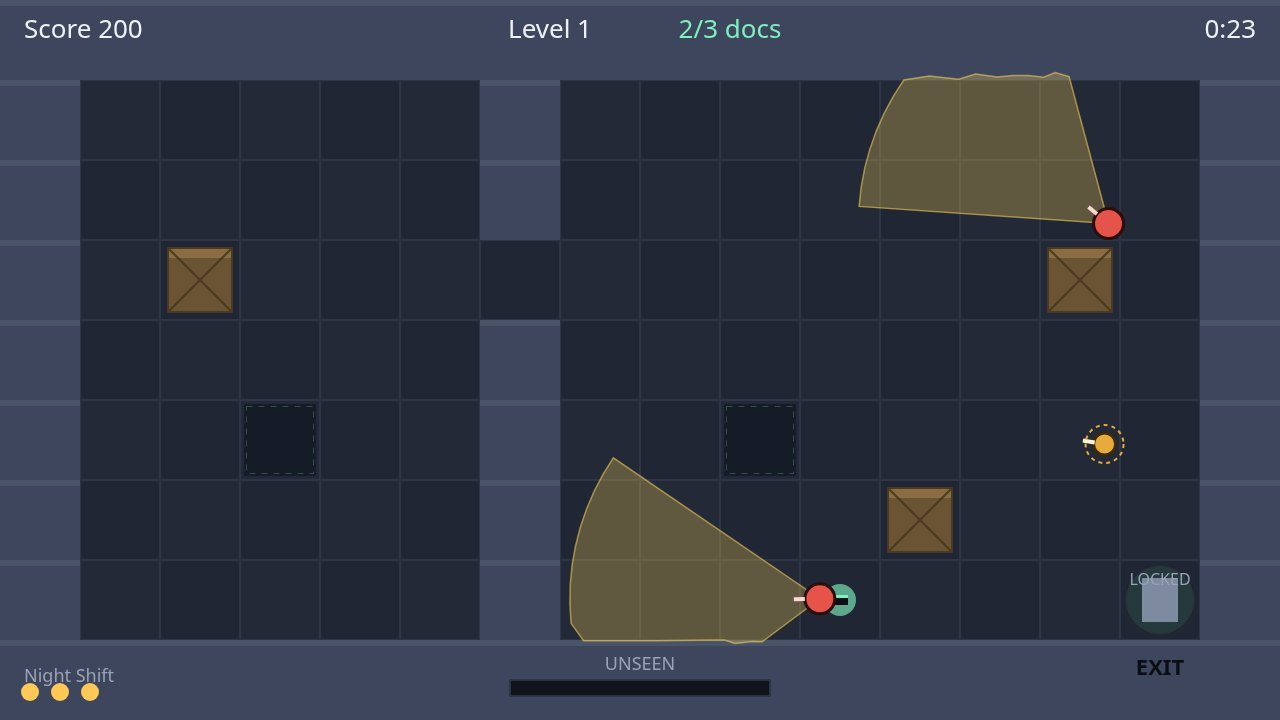
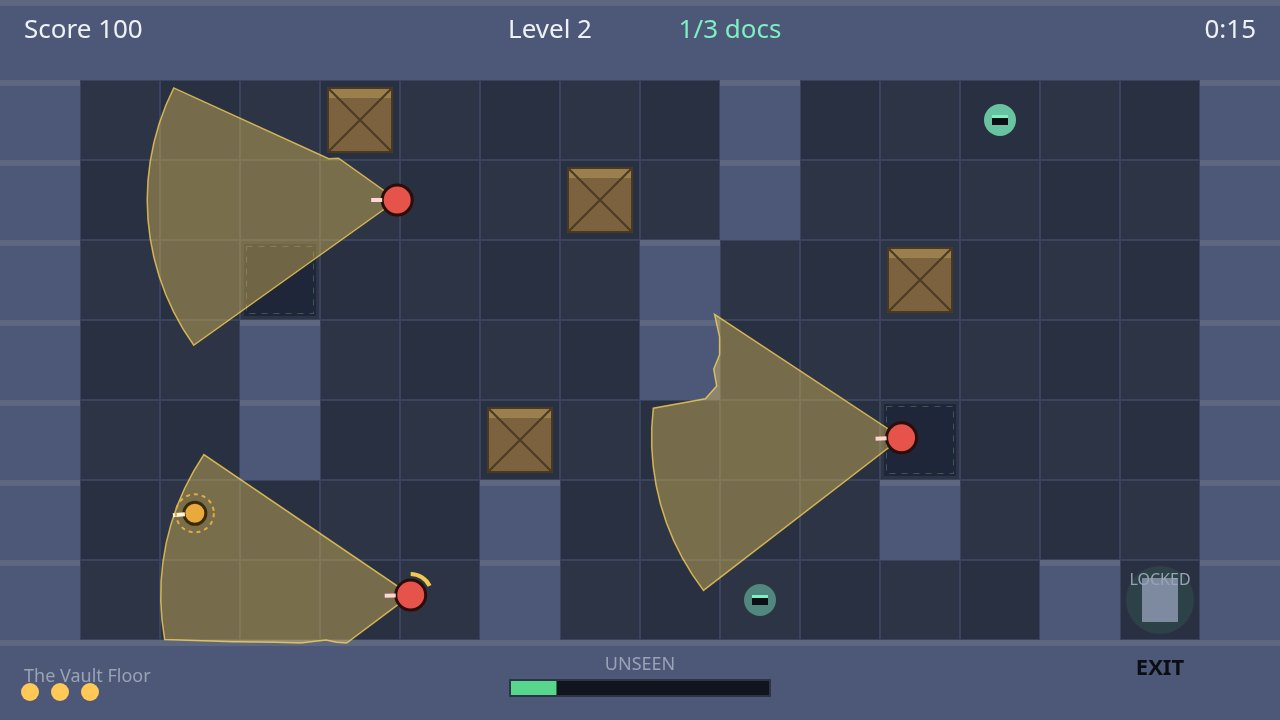
Shadow Courier v1: top-down stealth game + README

diff --git a/game/src/shots.js b/game/src/shots.js
@@ -12,9 +12,8 @@ import { EVENT_CAUGHT, EVENT_LEVEL, EVENT_WIN } from './world.js';
 import { STATE_CHASE, guardCanSee } from './guards.js';
 import { circleHitsWall } from './physics.js';
 import { tileAt, tileBlocks, tileCentre, tileIsShadow } from './levels.js';
-import { SCREEN_LEVEL, SCREEN_PLAY, SCREEN_TITLE } from './render.js';
+import { SCREEN_PLAY } from './render.js';
 
-const START_SECONDS = 5;
 const PLAY_SECONDS = 24;
 const WIN_LIMIT_SECONDS = 300;
 /** Replan the route at most this often; cones move, so a stale route lies. */
@@ -281,60 +280,166 @@ function createPilot() {
 }
 
 /**
- * Set `world` to the named scene (start, play, sneak or win; any other name
- * is start) and return the screen to draw over it and the best score.
+ * A plain-data snapshot of the moving parts of the world, so a screenshot
+ * can freeze the best frame of a real run instead of the frame the clock
+ * happened to stop on. `level` itself is re-loaded on restore, never copied.
  */
-export function stageShot(name, world) {
-  const state = world.state;
-  if (name !== 'play' && name !== 'sneak' && name !== 'win') {
-    world.reset();
-    for (let i = 0; i < START_SECONDS / STEP; i += 1) world.step(STEP, { x: 0, y: 0 }, false, true);
-    return { screen: SCREEN_TITLE, best: 0 };
-  }
+function snapshotState(state) {
+  return JSON.stringify({
+    levelIndex: state.levelIndex,
+    player: state.player,
+    guards: state.guards,
+    documents: state.documents,
+    exit: state.exit,
+    score: state.score,
+    lives: state.lives,
+    time: state.time,
+    docsTaken: state.docsTaken,
+    detection: state.detection,
+    alarm: state.alarm,
+    ghost: state.ghost,
+    caughtFlash: state.caughtFlash,
+  });
+}
 
-  world.reset();
-  const pilot = createPilot();
-  if (name === 'sneak') {
-    // Ten seconds of real sneaking, then freeze the tense moment: the
-    // courier crouched behind the central wall while a guard's cone sweeps
-    // the corridor just past him, detection half full.
-    for (let i = 0; i < 10 / STEP; i += 1) {
-      const move = pilot.step(state);
-      const events = world.step(STEP, move.move, move.crouch, false);
-      if (events & EVENT_CAUGHT) break;
+function restoreState(world, snap) {
+  const s = JSON.parse(snap);
+  world.loadLevel(s.levelIndex);
+  const st = world.state;
+  Object.assign(st.player, s.player);
+  st.guards = s.guards;
+  st.documents = s.documents;
+  Object.assign(st.exit, s.exit);
+  st.score = s.score;
+  st.lives = s.lives;
+  st.time = s.time;
+  st.docsTaken = s.docsTaken;
+  st.detection = s.detection;
+  st.alarm = s.alarm;
+  st.ghost = s.ghost;
+  st.caughtFlash = s.caughtFlash;
+}
+
+/**
+ * How good a frame looks as a screenshot: documents already stolen, the
+ * courier close to a remaining one, a guard near enough to matter, tension
+ * on the detection meter, and the courier out in the open floor rather than
+ * hugging a wall. The judge reads the frame, so the frame should tell the
+ * whole game at a glance.
+ */
+function frameScore(state) {
+  const player = state.player;
+  let score = state.docsTaken * 5;
+  for (const doc of state.documents) {
+    if (!doc.taken && Math.hypot(doc.x - player.x, doc.y - player.y) < 260) {
+      score += 4;
+      break;
     }
-    state.player.x = 360;
-    state.player.y = 280;
-    state.player.crouching = true;
-    state.player.angle = Math.PI;
-    const guard = state.guards[0];
-    guard.x = 640;
-    guard.y = 120;
-    guard.angle = 2.62;
-    guard.detection = 0.45;
-    state.detection = 0.45;
-    return { screen: SCREEN_PLAY, best: state.score };
   }
+  if (state.detection >= 0.05 && state.detection <= 0.9) score += 2;
+  for (const guard of state.guards) {
+    if (Math.hypot(guard.x - player.x, guard.y - player.y) < 420) score += 1;
+  }
+  if (player.x > 160 && player.x < 1120 && player.y > 120 && player.y < 600) score += 1;
+  if (pointIsWatched(state, player.x, player.y)) score += 2;
+  return score;
+}
 
-  const limit = name === 'win' ? WIN_LIMIT_SECONDS : PLAY_SECONDS;
-  let finished = 0;
-  for (let i = 0; i < limit / STEP; i += 1) {
+/**
+ * Play the autopilot for up to `seconds`, keep the best-looking frame after
+ * `minSeconds` (sampled every half second), and freeze on it. Returns the
+ * finish events when the pilot cleared the level mid-run — that frame is
+ * already the getaway, so it is kept as is.
+ */
+function runBestFrame(world, seconds, minSeconds) {
+  const state = world.state;
+  const pilot = createPilot();
+  const steps = Math.round(seconds / STEP);
+  const minSteps = Math.round(minSeconds / STEP);
+  let bestSnap = null;
+  let bestScore = -Infinity;
+  for (let i = 0; i < steps; i += 1) {
     const move = pilot.step(state);
     const events = world.step(STEP, move.move, move.crouch, false);
     if (events & EVENT_CAUGHT) break;
-    if (events & (EVENT_LEVEL | EVENT_WIN)) { finished = events; break; }
+    if (events & (EVENT_LEVEL | EVENT_WIN)) return { finished: events };
+    if (i >= minSteps && i % 30 === 0) {
+      const s = frameScore(state);
+      if (s > bestScore) { bestScore = s; bestSnap = snapshotState(state); }
+    }
   }
-  if (name === 'win' && !finished) {
-    // The pilot ran out of time: stage the getaway itself — every document
-    // taken, the courier at the open exit — and let the panel tell it.
-    for (const doc of state.documents) doc.taken = true;
-    state.docsTaken = state.documents.length;
-    state.exit.open = true;
-    state.player.x = state.exit.x;
-    state.player.y = state.exit.y;
-    state.time = 95;
-    state.score += 350;
+  if (bestSnap) restoreState(world, bestSnap);
+  return { finished: 0 };
+}
+
+/**
+ * Set `world` to the named scene and return the screen to draw over it and
+ * the best score. Every shot is a real mid-game frame on SCREEN_PLAY — no
+ * title or level-clear panel ever covers the level in a screenshot.
+ *
+ *   start — level 1, the best-looking frame of the first 30 s of real play:
+ *           thief, cones, a document and the exit in one frame.
+ *   play  — level 2 (The Vault Floor), best frame of 24 s of real play.
+ *   sneak — level 3 (The Director's Wing), frozen the moment detection
+ *           first passes 0.3, the courier crouched with the watcher near.
+ *   win   — the level-clear moment itself, courier on the open exit, with
+ *           the HUD — the panel is never drawn over it.
+ */
+export function stageShot(name, world) {
+  const state = world.state;
+
+  if (name === 'play') {
+    world.reset();
+    world.loadLevel(1);
+    runBestFrame(world, PLAY_SECONDS, 10);
+    return { screen: SCREEN_PLAY, best: state.score };
   }
-  if (name === 'win') return { screen: SCREEN_LEVEL, best: state.score };
+
+  if (name === 'sneak') {
+    world.reset();
+    world.loadLevel(2);
+    const pilot = createPilot();
+    for (let i = 0; i < 20 / STEP; i += 1) {
+      const move = pilot.step(state);
+      const events = world.step(STEP, move.move, move.crouch, false);
+      if (events & EVENT_CAUGHT) break;
+      if (events & (EVENT_LEVEL | EVENT_WIN)) break;
+      if (state.time > 5 && state.detection >= 0.3) break;
+      if (state.time >= 16) break;
+    }
+    // The crouch ring reads as "sneaking" — the pilot crouches whenever a
+    // guard is near, so the frozen frame says so even if it was mid-stride.
+    if (state.guards.some((g) => Math.hypot(g.x - state.player.x, g.y - state.player.y) < 300)) {
+      state.player.crouching = true;
+    }
+    return { screen: SCREEN_PLAY, best: state.score };
+  }
+
+  if (name === 'win') {
+    world.reset();
+    const pilot = createPilot();
+    let finished = 0;
+    for (let i = 0; i < WIN_LIMIT_SECONDS / STEP; i += 1) {
+      const move = pilot.step(state);
+      const events = world.step(STEP, move.move, move.crouch, false);
+      if (events & EVENT_CAUGHT) break;
+      if (events & (EVENT_LEVEL | EVENT_WIN)) { finished = events; break; }
+    }
+    if (!finished) {
+      // The pilot ran out of time: stage the getaway itself — every
+      // document taken, the courier at the open exit.
+      for (const doc of state.documents) doc.taken = true;
+      state.docsTaken = state.documents.length;
+      state.exit.open = true;
+      state.player.x = state.exit.x;
+      state.player.y = state.exit.y;
+      state.time = 95;
+      state.score += 350;
+    }
+    return { screen: SCREEN_PLAY, best: state.score };
+  }
+
+  world.reset();
+  runBestFrame(world, 30, 12);
   return { screen: SCREEN_PLAY, best: state.score };
 }

diff --git a/game/src/config.js b/game/src/config.js
@@ -36,23 +36,23 @@ export const LIVES = 3;
 export const POINTS = { document: 100, level: 250, ghost: 150 };
 
 export const PALETTE = {
-  backdrop: '#0b0e14',
-  floor: '#232936',
-  floorAlt: '#202634',
-  floorEdge: '#2e3547',
-  shadowFloor: '#161b28',
-  wall: '#3d465c',
-  wallTop: '#4a5468',
-  crate: '#6b5433',
-  crateTop: '#8a6d42',
+  backdrop: '#121722',
+  floor: '#2d3446',
+  floorAlt: '#293042',
+  floorEdge: '#3b445e',
+  shadowFloor: '#202639',
+  wall: '#4d5878',
+  wallTop: '#5d6880',
+  crate: '#7d6240',
+  crateTop: '#9c7f4f',
   crateEdge: '#4a3a22',
   player: '#ffc857',
   playerCrouch: '#e8a93d',
   guard: '#e5534b',
   guardChase: '#ff2e2e',
-  cone: 'rgba(255, 214, 90, 0.28)',
-  coneAlert: 'rgba(255, 60, 50, 0.38)',
-  coneEdge: 'rgba(255, 214, 90, 0.55)',
+  cone: 'rgba(255, 214, 90, 0.36)',
+  coneAlert: 'rgba(255, 60, 50, 0.45)',
+  coneEdge: 'rgba(255, 214, 90, 0.75)',
   document: '#7ef0c1',
   exit: '#58d68d',
   exitGlow: 'rgba(88, 214, 141, 0.25)',
